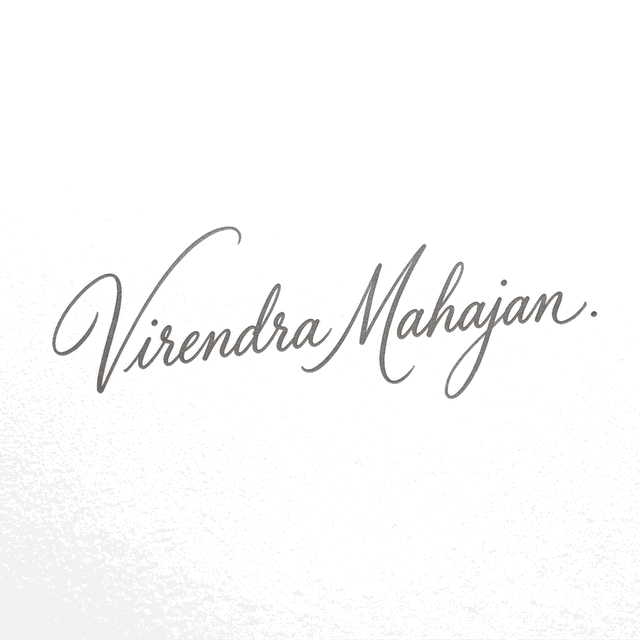
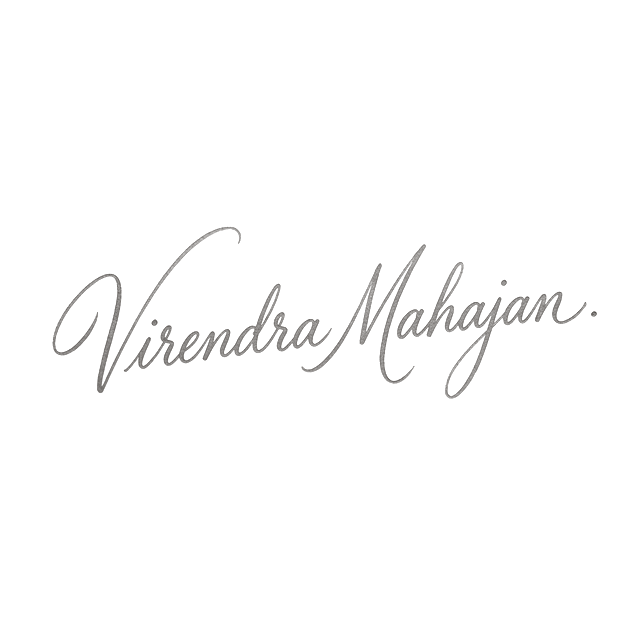
Enhance: Adjust signature layout and text to match reference perfectly

diff --git a/src/app/page.tsx b/src/app/page.tsx
@@ -241,18 +241,18 @@ export default function LandingPage() {
             </h2>
           </blockquote>
           
-          <div className="flex flex-col items-start justify-center pl-8 md:pl-12 border-l border-[rgba(0,0,0,0.05)] h-full min-h-[250px] mt-10 md:mt-0">
-            <div className="mb-4">
+          <div className="flex flex-col items-center justify-center pl-8 md:pl-12 border-l border-[rgba(0,0,0,0.05)] h-full min-h-[250px] mt-10 md:mt-0">
+            <div className="mb-6 mr-8 md:mr-16">
               {/* eslint-disable-next-line @next/next/no-img-element */}
               <img 
                 src="/assets/signature-transparent.png" 
                 alt="Virendra Mahajan Signature" 
-                className="h-24 md:h-32 w-auto object-contain opacity-90" 
+                className="h-32 md:h-48 w-auto object-contain mix-blend-multiply opacity-80" 
               />
             </div>
             
-            <p className="font-mono text-xs md:text-sm tracking-widest text-[#5e554d] uppercase mt-2">
-              Virendra Mahajan, Chief Architect & Founder
+            <p className="font-mono text-sm md:text-base tracking-wide text-[#5e554d]">
+              Virendra Mahajan, CEO ARGUS
             </p>
           </div>
         </div>

diff --git a/process_signature.py b/process_signature.py
@@ -1,0 +1,27 @@
+from PIL import Image
+
+img_path = r"d:\(ACTIF)\public\assets\signature.png"
+out_path = r"d:\(ACTIF)\public\assets\signature-transparent.png"
+try:
+    img = Image.open(img_path).convert("RGBA")
+    data = img.getdata()
+    new_data = []
+    
+    for item in data:
+        r, g, b, a = item
+        lum = int(0.299 * r + 0.587 * g + 0.114 * b)
+        
+        # Aggressively strip anything that is light grey or white
+        if lum < 200:
+            # Scale alpha so that darker pixels are more opaque
+            alpha_val = int(((200 - lum) / 200) * 255)
+            # Ensure the ink is very dark grey
+            new_data.append((47, 42, 38, alpha_val))
+        else:
+            new_data.append((255, 255, 255, 0))
+
+    img.putdata(new_data)
+    img.save(out_path, "PNG")
+    print("Perfect transparency applied")
+except Exception as e:
+    print(e)
